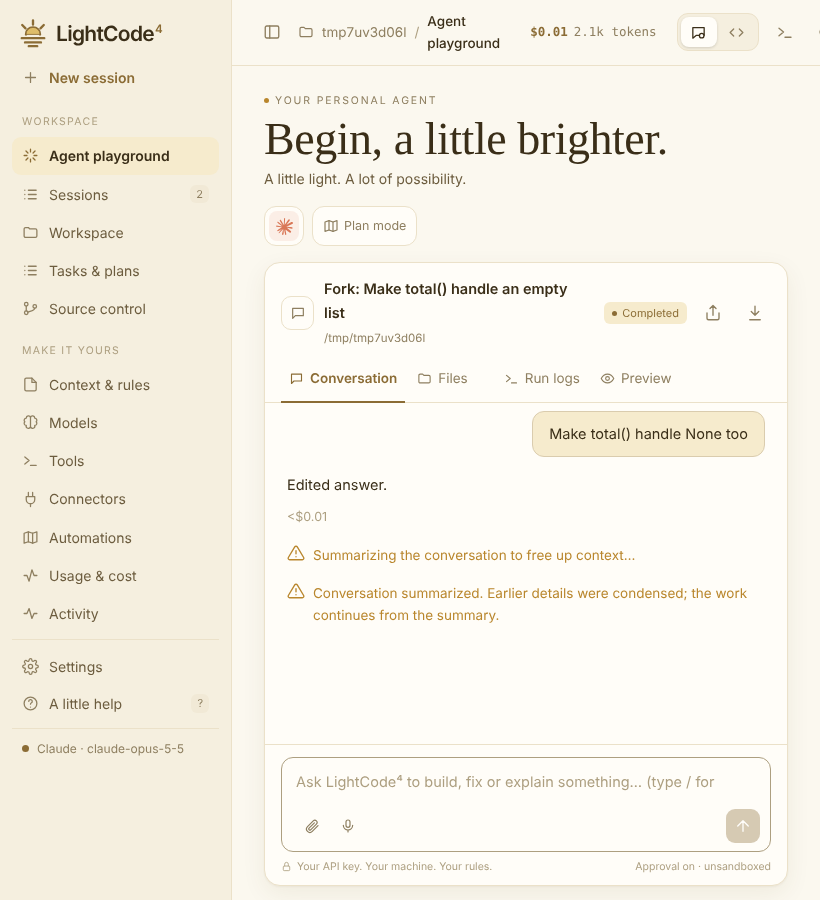
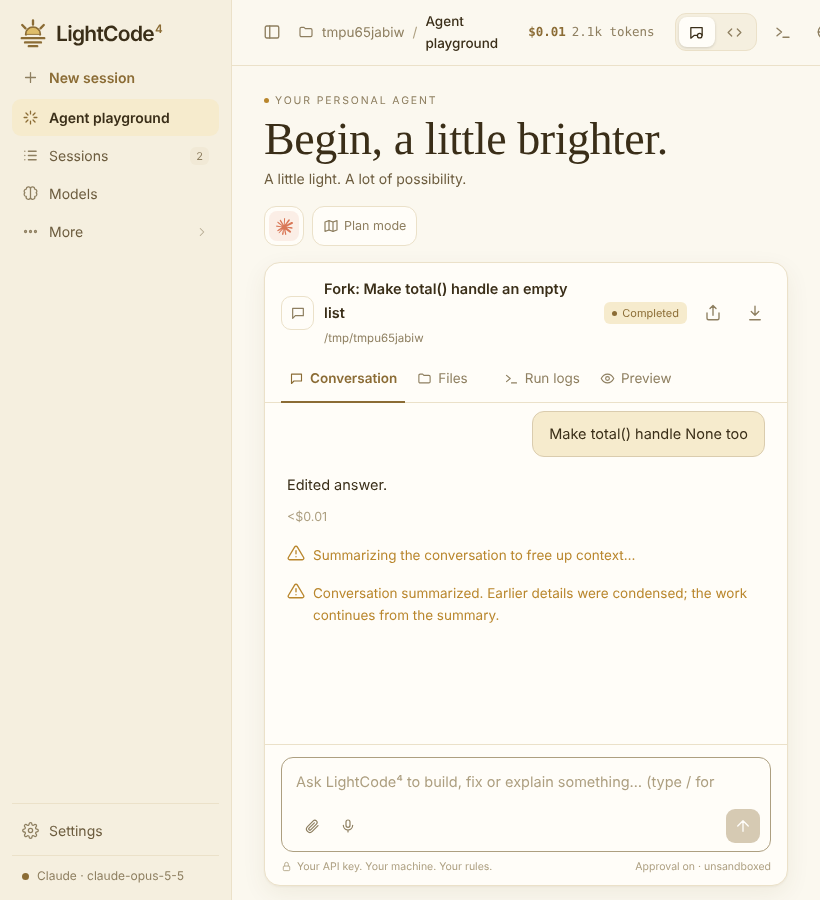
Sidebar: essentials only; everything else under More, which drops down on hover, click or focus; Settings pinned to the bottom
Claude-Session: https://claude.ai/code/session_01AvqsqpDFjBC8YmDhkXMhAb

diff --git a/myagent/static/index.html b/myagent/static/index.html
@@ -349,7 +349,7 @@ aside.hidden { margin-left: -232px; }
 .promo b { font-size: 24px; line-height: 1.1; font-weight: 400; }
 .promo a { display: flex; justify-content: space-between; align-items: center; border: 1px solid rgba(255,255,255,.3); border-radius: 8px; padding: 6px 9px; font-size: 12px; cursor: pointer; }
 .promo a svg, .promo2 a svg, .linkbtn svg { width: 13px; height: 13px; transform: rotate(45deg); }
-.side-foot { margin-top: 6px; }
+.side-foot { margin-top: auto; }
 .who { display: flex; gap: 10px; align-items: center; padding: 10px 6px 2px; border-top: 1px solid var(--line); margin-top: 6px; }
 .who .wsav { background: #ecdcc9; color: #8a6a4c; border-radius: 50%; }
 .topbar { border-bottom: 1px solid var(--line); padding: 10px 24px; min-height: 60px; gap: 10px; background: var(--bg); }
@@ -512,6 +512,15 @@ body.models-open #modelsView { display: block !important; }
 #planBtn { height: 40px; border-radius: 12px; background: var(--panel); }
 #provMenu { left: 0; }
 #side .brand { padding-bottom: 6px; }
+#side .more { display: flex; flex-direction: column; }
+#moreBtn .mchev { margin-left: auto; width: 14px; height: 14px; transition: transform .2s; opacity: .6; }
+.morelist { display: grid; grid-template-rows: 0fr; opacity: 0; visibility: hidden; overflow: hidden;
+  transition: grid-template-rows .22s ease, opacity .18s, visibility 0s linear .22s; }
+.more:hover .morelist, .more:focus-within .morelist, .more.open .morelist { grid-template-rows: 1fr; opacity: 1; visibility: visible; transition-delay: 0s; }
+.morelist-inner { min-height: 0; overflow: hidden; display: flex; flex-direction: column; }
+.more:hover #moreBtn .mchev, .more:focus-within #moreBtn .mchev, .more.open #moreBtn .mchev { transform: rotate(90deg); }
+.more:has(.morelist .navbtn.on) > #moreBtn { color: var(--accent); }
+@media (prefers-reduced-motion: reduce) { .morelist, #moreBtn .mchev { transition: none; } }
 #railWsBtn { cursor: pointer; } #railWsBtn:hover b { color: var(--accent); }
 .modeseg { display: flex; background: var(--side); border: 1px solid var(--line); border-radius: 11px; padding: 3px; gap: 2px; }
 .modeseg button { border: 0; background: none; color: var(--muted); border-radius: 8px; width: 36px; height: 30px; display: grid; place-items: center; }
@@ -553,26 +562,31 @@ body.models-open #modelsView { display: block !important; }
   <div class="brand"><svg class="bmark" viewBox="0 0 64 64" aria-hidden="true"><g fill="none" stroke="currentColor" stroke-width="5" stroke-linecap="round"><path d="M17 35a15 15 0 0 1 30 0M8 43h48M15 52h34M23 60h18M32 5v9M9 15l7 7M55 15l-7 7"/></g><path d="M17 35a15 15 0 0 1 30 0Z" fill="var(--sun)"/></svg><b class="bname">LightCode<sup>4</sup></b></div>
   <button class="wsbox" id="wsBox" title="Workspace folder" hidden><span class="wsav">M</span><span class="wst"><b id="wsName">My workspace</b><small id="wsPath">Personal workspace</small></span><svg><use href="#i-chev"/></svg></button>
   <button class="navbtn newchat" id="newchat"><svg><use href="#i-plus"/></svg>New session</button>
-  <div class="section">Workspace</div>
   <button class="navbtn on" id="navPlay"><svg><use href="#i-spark"/></svg>Agent playground</button>
   <button class="navbtn" id="navSessions"><svg><use href="#i-list"/></svg>Sessions<em id="sessCount">0</em></button>
   <div id="sessBox">
     <button class="navbtn small" id="parallelChat" title="Run another agent at the same time on its own git branch and folder"><svg><use href="#i-agent"/></svg>Parallel session (worktree)</button>
     <div id="chatList"></div></div>
-  <button class="navbtn" id="navFiles"><svg><use href="#i-folder"/></svg>Workspace</button>
-  <button class="navbtn" id="navTasks"><svg><use href="#i-list"/></svg>Tasks &amp; plans</button>
-  <button class="navbtn" id="navGit"><svg viewBox="0 0 24 24"><circle cx="6" cy="6" r="2.5"/><circle cx="6" cy="18" r="2.5"/><circle cx="18" cy="9" r="2.5"/><path d="M6 8.5v7M18 11.5c0 3-4 3.5-10 5.5"/></svg>Source control</button>
-  <div class="section">Make it yours</div>
-  <button class="navbtn" data-set="instr"><svg><use href="#i-file"/></svg>Context &amp; rules</button>
   <button class="navbtn" data-set="model"><svg><use href="#i-brain"/></svg>Models</button>
-  <button class="navbtn" data-set="tools"><svg><use href="#i-term"/></svg>Tools<em id="toolCount"></em></button>
-  <button class="navbtn" data-set="mcp"><svg><use href="#i-plug"/></svg>Connectors</button>
-  <button class="navbtn" data-set="sched"><svg><use href="#i-map"/></svg>Automations</button>
-  <button class="navbtn" id="navUsage"><svg viewBox="0 0 24 24"><path d="M3 12h4l3 8 4-16 3 8h4"/></svg>Usage &amp; cost</button>
-  <button class="navbtn" id="navActivity"><svg viewBox="0 0 24 24"><path d="M3 12h4l3-7 4 14 3-7h4"/></svg>Activity</button>
+  <div class="more" id="more">
+    <button class="navbtn" id="moreBtn" aria-expanded="false" aria-controls="moreList"><svg viewBox="0 0 24 24"><circle cx="5" cy="12" r="1.4"/><circle cx="12" cy="12" r="1.4"/><circle cx="19" cy="12" r="1.4"/></svg>More<svg class="mchev"><use href="#i-chev"/></svg></button>
+    <div class="morelist" id="moreList"><div class="morelist-inner">
+      <div class="section">Workspace</div>
+      <button class="navbtn" id="navFiles"><svg><use href="#i-folder"/></svg>Workspace</button>
+      <button class="navbtn" id="navTasks"><svg><use href="#i-list"/></svg>Tasks &amp; plans</button>
+      <button class="navbtn" id="navGit"><svg viewBox="0 0 24 24"><circle cx="6" cy="6" r="2.5"/><circle cx="6" cy="18" r="2.5"/><circle cx="18" cy="9" r="2.5"/><path d="M6 8.5v7M18 11.5c0 3-4 3.5-10 5.5"/></svg>Source control</button>
+      <div class="section">Make it yours</div>
+      <button class="navbtn" data-set="instr"><svg><use href="#i-file"/></svg>Context &amp; rules</button>
+      <button class="navbtn" data-set="tools"><svg><use href="#i-term"/></svg>Tools<em id="toolCount"></em></button>
+      <button class="navbtn" data-set="mcp"><svg><use href="#i-plug"/></svg>Connectors</button>
+      <button class="navbtn" data-set="sched"><svg><use href="#i-map"/></svg>Automations</button>
+      <button class="navbtn" id="navUsage"><svg viewBox="0 0 24 24"><path d="M3 12h4l3 8 4-16 3 8h4"/></svg>Usage &amp; cost</button>
+      <button class="navbtn" id="navActivity"><svg viewBox="0 0 24 24"><path d="M3 12h4l3-7 4 14 3-7h4"/></svg>Activity</button>
+      <button class="navbtn" id="navHelp"><svg viewBox="0 0 24 24"><circle cx="12" cy="12" r="9"/><path d="M9.5 9a2.5 2.5 0 1 1 3.5 2.3c-.7.3-1 .9-1 1.7M12 17h.01"/></svg>A little help<em>?</em></button>
+    </div></div>
+  </div>
   <div class="side-foot">
     <button class="navbtn" id="openSettings"><svg><use href="#i-gear"/></svg>Settings</button>
-    <button class="navbtn" id="navHelp"><svg viewBox="0 0 24 24"><circle cx="12" cy="12" r="9"/><path d="M9.5 9a2.5 2.5 0 1 1 3.5 2.3c-.7.3-1 .9-1 1.7M12 17h.01"/></svg>A little help<em>?</em></button>
     <div class="who"><span class="dot" id="dot"></span><span id="who">Connecting…</span></div>
   </div>
 </aside>
@@ -1271,6 +1285,9 @@ window.addEventListener("dragleave", () => { if (--dragDepth <= 0) { dragDepth =
 window.addEventListener("dragover", e => e.preventDefault());
 window.addEventListener("drop", e => { e.preventDefault(); dragDepth = 0; document.body.classList.remove("dragging"); if (e.dataTransfer?.files?.length) addFiles(e.dataTransfer.files); });
 
+// ---------- Sidebar "More" ----------
+$("moreBtn").onclick = () => { const o = $("more").classList.toggle("open"); $("moreBtn").setAttribute("aria-expanded", o); };
+$("more").addEventListener("mouseleave", () => { if (!$("more").contains(document.activeElement)) { $("more").classList.remove("open"); $("moreBtn").setAttribute("aria-expanded", "false"); } });
 // ---------- Composer ----------
 function startChatting() { if (!document.body.classList.contains("chatting")) { document.body.classList.add("chatting"); dockComposer(); } }
 function dockComposer() { if (!$("dock").contains($("composer"))) $("dock").appendChild($("composer")); }
@@ -1752,7 +1769,7 @@ $("fpClose").onclick = () => $("folderPicker").close();
 $("wsBox").onclick = $("railWsBtn").onclick = $("folderPill").onclick = openFolderPicker;
 
 // ---------- Interface language ----------
-const I18N = {"es": {"Agent playground": "Área del agente", "Sessions": "Sesiones", "New session": "Nueva sesión", "Parallel session (worktree)": "Sesión paralela (worktree)", "Workspace": "Espacio de trabajo", "Tasks & plans": "Tareas y planes", "Source control": "Control de versiones", "Make it yours": "Hazlo tuyo", "Context & rules": "Contexto y reglas", "Models": "Modelos", "Tools": "Herramientas", "Connectors": "Conectores", "Automations": "Automatizaciones", "Usage & cost": "Uso y costo", "Activity": "Actividad", "Settings": "Ajustes", "A little help": "Ayuda", "Jump to anything…": "Ir a cualquier cosa…", "Your personal agent": "Tu agente personal", "Begin, a little brighter.": "Empieza, un poco más brillante.", "A little light. A lot of possibility.": "Un poco de luz. Muchas posibilidades.", "Checkpoints": "Puntos de control", "View code": "Ver código", "Plan mode": "Modo plan", "Browser preview": "Vista del navegador", "Terminal": "Terminal", "Conversation": "Conversación", "Files": "Archivos", "Run logs": "Registros", "Preview": "Vista previa", "Run overview": "Resumen", "No plan yet": "Aún sin plan", "Open task board": "Abrir tareas", "Model": "Modelo", "Tokens used": "Tokens usados", "Cost": "Costo", "Your next edit, safely saved.": "Tu próxima edición, guardada.", "View": "Ver", "Ready": "Listo", "Working": "Trabajando", "Completed": "Completado", "Idle": "Inactivo", "Your API key. Your machine. Your rules.": "Tu clave. Tu equipo. Tus reglas.", "What would you like to build?": "¿Qué quieres construir?", "Explain what this folder contains": "Explica qué contiene esta carpeta", "Find and fix a bug": "Encuentra y corrige un error", "Write tests for my code": "Escribe pruebas para mi código", "Build a small web page and preview it": "Crea una página web y muéstrala", "Allow": "Permitir", "Deny": "Denegar", "Done": "Hecho", "Running": "Ejecutando", "Failed": "Falló", "Needs approval": "Requiere aprobación", "Undo": "Deshacer", "Cancel": "Cancelar", "Save": "Guardar", "Tools & limits": "Herramientas y límites", "Permissions": "Permisos", "Project instructions": "Instrucciones del proyecto", "Memory": "Memoria", "Schedules": "Programación", "Phone": "Teléfono", "Updates": "Actualizaciones", "Project folder": "Carpeta del proyecto", "Open": "Abrir", "Choose folder…": "Elegir carpeta…", "Keyboard shortcuts": "Atajos de teclado", "Load models": "Cargar modelos", "Test connection": "Probar conexión", "Ask LightCode⁴ to build, fix or explain something… (type / for commands)": "Pide a LightCode⁴ que construya, arregle o explique algo… (escribe / para comandos)", "Approval on": "Aprobación activada", "Auto-approve": "Aprobación automática", "sandboxed": "en sandbox", "unsandboxed": "sin sandbox", "Search models…": "Buscar modelos…"}, "fr": {"Agent playground": "Espace agent", "Sessions": "Sessions", "New session": "Nouvelle session", "Parallel session (worktree)": "Session parallèle (worktree)", "Workspace": "Espace de travail", "Tasks & plans": "Tâches et plans", "Source control": "Contrôle de source", "Make it yours": "Personnaliser", "Context & rules": "Contexte et règles", "Models": "Modèles", "Tools": "Outils", "Connectors": "Connecteurs", "Automations": "Automatisations", "Usage & cost": "Usage et coût", "Activity": "Activité", "Settings": "Réglages", "A little help": "Aide", "Jump to anything…": "Aller à…", "Your personal agent": "Votre agent personnel", "Begin, a little brighter.": "Commencez, un peu plus lumineux.", "A little light. A lot of possibility.": "Un peu de lumière. Beaucoup de possibilités.", "Checkpoints": "Points de contrôle", "View code": "Voir le code", "Plan mode": "Mode plan", "Browser preview": "Aperçu navigateur", "Terminal": "Terminal", "Conversation": "Conversation", "Files": "Fichiers", "Run logs": "Journaux", "Preview": "Aperçu", "Run overview": "Aperçu de l'exécution", "No plan yet": "Pas encore de plan", "Open task board": "Ouvrir les tâches", "Model": "Modèle", "Tokens used": "Jetons utilisés", "Cost": "Coût", "Your next edit, safely saved.": "Votre prochaine modification, sauvegardée.", "View": "Voir", "Ready": "Prêt", "Working": "En cours", "Completed": "Terminé", "Idle": "Inactif", "Your API key. Your machine. Your rules.": "Votre clé. Votre machine. Vos règles.", "What would you like to build?": "Que voulez-vous créer ?", "Explain what this folder contains": "Explique le contenu de ce dossier", "Find and fix a bug": "Trouver et corriger un bug", "Write tests for my code": "Écrire des tests pour mon code", "Build a small web page and preview it": "Créer une petite page web et l'afficher", "Allow": "Autoriser", "Deny": "Refuser", "Done": "Fait", "Running": "En cours", "Failed": "Échec", "Needs approval": "À approuver", "Undo": "Annuler", "Cancel": "Annuler", "Save": "Enregistrer", "Tools & limits": "Outils et limites", "Permissions": "Autorisations", "Project instructions": "Instructions du projet", "Memory": "Mémoire", "Schedules": "Planification", "Phone": "Téléphone", "Updates": "Mises à jour", "Project folder": "Dossier du projet", "Open": "Ouvrir", "Choose folder…": "Choisir un dossier…", "Keyboard shortcuts": "Raccourcis clavier", "Load models": "Charger les modèles", "Test connection": "Tester la connexion", "Ask LightCode⁴ to build, fix or explain something… (type / for commands)": "Demandez à LightCode⁴ de créer, corriger ou expliquer… (tapez / pour les commandes)", "Approval on": "Approbation activée", "Auto-approve": "Approbation auto", "sandboxed": "isolé", "unsandboxed": "non isolé", "Search models…": "Rechercher des modèles…"}, "pt": {"Agent playground": "Área do agente", "Sessions": "Sessões", "New session": "Nova sessão", "Parallel session (worktree)": "Sessão paralela (worktree)", "Workspace": "Espaço de trabalho", "Tasks & plans": "Tarefas e planos", "Source control": "Controle de versão", "Make it yours": "Personalize", "Context & rules": "Contexto e regras", "Models": "Modelos", "Tools": "Ferramentas", "Connectors": "Conectores", "Automations": "Automações", "Usage & cost": "Uso e custo", "Activity": "Atividade", "Settings": "Configurações", "A little help": "Ajuda", "Jump to anything…": "Ir para…", "Your personal agent": "Seu agente pessoal", "Begin, a little brighter.": "Comece, um pouco mais brilhante.", "A little light. A lot of possibility.": "Um pouco de luz. Muitas possibilidades.", "Checkpoints": "Pontos de controle", "View code": "Ver código", "Plan mode": "Modo plano", "Browser preview": "Prévia do navegador", "Terminal": "Terminal", "Conversation": "Conversa", "Files": "Arquivos", "Run logs": "Registros", "Preview": "Prévia", "Run overview": "Resumo", "No plan yet": "Sem plano ainda", "Open task board": "Abrir tarefas", "Model": "Modelo", "Tokens used": "Tokens usados", "Cost": "Custo", "Your next edit, safely saved.": "Sua próxima edição, salva.", "View": "Ver", "Ready": "Pronto", "Working": "Trabalhando", "Completed": "Concluído", "Idle": "Ocioso", "Your API key. Your machine. Your rules.": "Sua chave. Sua máquina. Suas regras.", "What would you like to build?": "O que você quer construir?", "Explain what this folder contains": "Explique o que esta pasta contém", "Find and fix a bug": "Encontre e corrija um bug", "Write tests for my code": "Escreva testes para meu código", "Build a small web page and preview it": "Crie uma página web e visualize", "Allow": "Permitir", "Deny": "Negar", "Done": "Feito", "Running": "Executando", "Failed": "Falhou", "Needs approval": "Precisa de aprovação", "Undo": "Desfazer", "Cancel": "Cancelar", "Save": "Salvar", "Tools & limits": "Ferramentas e limites", "Permissions": "Permissões", "Project instructions": "Instruções do projeto", "Memory": "Memória", "Schedules": "Agendamentos", "Phone": "Telefone", "Updates": "Atualizações", "Project folder": "Pasta do projeto", "Open": "Abrir", "Choose folder…": "Escolher pasta…", "Keyboard shortcuts": "Atalhos de teclado", "Load models": "Carregar modelos", "Test connection": "Testar conexão", "Ask LightCode⁴ to build, fix or explain something… (type / for commands)": "Peça ao LightCode⁴ para construir, corrigir ou explicar… (digite / para comandos)", "Approval on": "Aprovação ativada", "Auto-approve": "Aprovação automática", "sandboxed": "isolado", "unsandboxed": "sem isolamento", "Search models…": "Buscar modelos…"}, "de": {"Agent playground": "Agenten-Bereich", "Sessions": "Sitzungen", "New session": "Neue Sitzung", "Parallel session (worktree)": "Parallele Sitzung (Worktree)", "Workspace": "Arbeitsbereich", "Tasks & plans": "Aufgaben & Pläne", "Source control": "Versionskontrolle", "Make it yours": "Anpassen", "Context & rules": "Kontext & Regeln", "Models": "Modelle", "Tools": "Werkzeuge", "Connectors": "Konnektoren", "Automations": "Automationen", "Usage & cost": "Nutzung & Kosten", "Activity": "Aktivität", "Settings": "Einstellungen", "A little help": "Hilfe", "Jump to anything…": "Springe zu…", "Your personal agent": "Dein persönlicher Agent", "Begin, a little brighter.": "Beginne, ein wenig heller.", "A little light. A lot of possibility.": "Ein wenig Licht. Viele Möglichkeiten.", "Checkpoints": "Prüfpunkte", "View code": "Code ansehen", "Plan mode": "Planmodus", "Browser preview": "Browser-Vorschau", "Terminal": "Terminal", "Conversation": "Unterhaltung", "Files": "Dateien", "Run logs": "Protokolle", "Preview": "Vorschau", "Run overview": "Übersicht", "No plan yet": "Noch kein Plan", "Open task board": "Aufgaben öffnen", "Model": "Modell", "Tokens used": "Tokens genutzt", "Cost": "Kosten", "Your next edit, safely saved.": "Deine nächste Änderung, gesichert.", "View": "Ansehen", "Ready": "Bereit", "Working": "Arbeitet", "Completed": "Fertig", "Idle": "Bereit", "Your API key. Your machine. Your rules.": "Dein Schlüssel. Dein Rechner. Deine Regeln.", "What would you like to build?": "Was möchtest du bauen?", "Explain what this folder contains": "Erkläre, was dieser Ordner enthält", "Find and fix a bug": "Finde und behebe einen Fehler", "Write tests for my code": "Schreibe Tests für meinen Code", "Build a small web page and preview it": "Baue eine kleine Webseite mit Vorschau", "Allow": "Erlauben", "Deny": "Ablehnen", "Done": "Erledigt", "Running": "Läuft", "Failed": "Fehlgeschlagen", "Needs approval": "Genehmigung nötig", "Undo": "Rückgängig", "Cancel": "Abbrechen", "Save": "Speichern", "Tools & limits": "Werkzeuge & Limits", "Permissions": "Berechtigungen", "Project instructions": "Projektanweisungen", "Memory": "Gedächtnis", "Schedules": "Zeitpläne", "Phone": "Telefon", "Updates": "Updates", "Project folder": "Projektordner", "Open": "Öffnen", "Choose folder…": "Ordner wählen…", "Keyboard shortcuts": "Tastenkürzel", "Load models": "Modelle laden", "Test connection": "Verbindung testen", "Ask LightCode⁴ to build, fix or explain something… (type / for commands)": "Bitte LightCode⁴, etwas zu bauen, zu reparieren oder zu erklären… (/ für Befehle)", "Approval on": "Genehmigung an", "Auto-approve": "Automatisch erlauben", "sandboxed": "abgeschirmt", "unsandboxed": "ohne Sandbox", "Search models…": "Modelle suchen…"}};
+const I18N = {"es": {"Agent playground": "Área del agente", "Sessions": "Sesiones", "New session": "Nueva sesión", "Parallel session (worktree)": "Sesión paralela (worktree)", "Workspace": "Espacio de trabajo", "Tasks & plans": "Tareas y planes", "Source control": "Control de versiones", "Make it yours": "Hazlo tuyo", "Context & rules": "Contexto y reglas", "Models": "Modelos", "Tools": "Herramientas", "Connectors": "Conectores", "Automations": "Automatizaciones", "Usage & cost": "Uso y costo", "Activity": "Actividad", "More": "Más", "Settings": "Ajustes", "A little help": "Ayuda", "Jump to anything…": "Ir a cualquier cosa…", "Your personal agent": "Tu agente personal", "Begin, a little brighter.": "Empieza, un poco más brillante.", "A little light. A lot of possibility.": "Un poco de luz. Muchas posibilidades.", "Checkpoints": "Puntos de control", "View code": "Ver código", "Plan mode": "Modo plan", "Browser preview": "Vista del navegador", "Terminal": "Terminal", "Conversation": "Conversación", "Files": "Archivos", "Run logs": "Registros", "Preview": "Vista previa", "Run overview": "Resumen", "No plan yet": "Aún sin plan", "Open task board": "Abrir tareas", "Model": "Modelo", "Tokens used": "Tokens usados", "Cost": "Costo", "Your next edit, safely saved.": "Tu próxima edición, guardada.", "View": "Ver", "Ready": "Listo", "Working": "Trabajando", "Completed": "Completado", "Idle": "Inactivo", "Your API key. Your machine. Your rules.": "Tu clave. Tu equipo. Tus reglas.", "What would you like to build?": "¿Qué quieres construir?", "Explain what this folder contains": "Explica qué contiene esta carpeta", "Find and fix a bug": "Encuentra y corrige un error", "Write tests for my code": "Escribe pruebas para mi código", "Build a small web page and preview it": "Crea una página web y muéstrala", "Allow": "Permitir", "Deny": "Denegar", "Done": "Hecho", "Running": "Ejecutando", "Failed": "Falló", "Needs approval": "Requiere aprobación", "Undo": "Deshacer", "Cancel": "Cancelar", "Save": "Guardar", "Tools & limits": "Herramientas y límites", "Permissions": "Permisos", "Project instructions": "Instrucciones del proyecto", "Memory": "Memoria", "Schedules": "Programación", "Phone": "Teléfono", "Updates": "Actualizaciones", "Project folder": "Carpeta del proyecto", "Open": "Abrir", "Choose folder…": "Elegir carpeta…", "Keyboard shortcuts": "Atajos de teclado", "Load models": "Cargar modelos", "Test connection": "Probar conexión", "Ask LightCode⁴ to build, fix or explain something… (type / for commands)": "Pide a LightCode⁴ que construya, arregle o explique algo… (escribe / para comandos)", "Approval on": "Aprobación activada", "Auto-approve": "Aprobación automática", "sandboxed": "en sandbox", "unsandboxed": "sin sandbox", "Search models…": "Buscar modelos…"}, "fr": {"Agent playground": "Espace agent", "Sessions": "Sessions", "New session": "Nouvelle session", "Parallel session (worktree)": "Session parallèle (worktree)", "Workspace": "Espace de travail", "Tasks & plans": "Tâches et plans", "Source control": "Contrôle de source", "Make it yours": "Personnaliser", "Context & rules": "Contexte et règles", "Models": "Modèles", "Tools": "Outils", "Connectors": "Connecteurs", "Automations": "Automatisations", "Usage & cost": "Usage et coût", "Activity": "Activité", "More": "Plus", "Settings": "Réglages", "A little help": "Aide", "Jump to anything…": "Aller à…", "Your personal agent": "Votre agent personnel", "Begin, a little brighter.": "Commencez, un peu plus lumineux.", "A little light. A lot of possibility.": "Un peu de lumière. Beaucoup de possibilités.", "Checkpoints": "Points de contrôle", "View code": "Voir le code", "Plan mode": "Mode plan", "Browser preview": "Aperçu navigateur", "Terminal": "Terminal", "Conversation": "Conversation", "Files": "Fichiers", "Run logs": "Journaux", "Preview": "Aperçu", "Run overview": "Aperçu de l'exécution", "No plan yet": "Pas encore de plan", "Open task board": "Ouvrir les tâches", "Model": "Modèle", "Tokens used": "Jetons utilisés", "Cost": "Coût", "Your next edit, safely saved.": "Votre prochaine modification, sauvegardée.", "View": "Voir", "Ready": "Prêt", "Working": "En cours", "Completed": "Terminé", "Idle": "Inactif", "Your API key. Your machine. Your rules.": "Votre clé. Votre machine. Vos règles.", "What would you like to build?": "Que voulez-vous créer ?", "Explain what this folder contains": "Explique le contenu de ce dossier", "Find and fix a bug": "Trouver et corriger un bug", "Write tests for my code": "Écrire des tests pour mon code", "Build a small web page and preview it": "Créer une petite page web et l'afficher", "Allow": "Autoriser", "Deny": "Refuser", "Done": "Fait", "Running": "En cours", "Failed": "Échec", "Needs approval": "À approuver", "Undo": "Annuler", "Cancel": "Annuler", "Save": "Enregistrer", "Tools & limits": "Outils et limites", "Permissions": "Autorisations", "Project instructions": "Instructions du projet", "Memory": "Mémoire", "Schedules": "Planification", "Phone": "Téléphone", "Updates": "Mises à jour", "Project folder": "Dossier du projet", "Open": "Ouvrir", "Choose folder…": "Choisir un dossier…", "Keyboard shortcuts": "Raccourcis clavier", "Load models": "Charger les modèles", "Test connection": "Tester la connexion", "Ask LightCode⁴ to build, fix or explain something… (type / for commands)": "Demandez à LightCode⁴ de créer, corriger ou expliquer… (tapez / pour les commandes)", "Approval on": "Approbation activée", "Auto-approve": "Approbation auto", "sandboxed": "isolé", "unsandboxed": "non isolé", "Search models…": "Rechercher des modèles…"}, "pt": {"Agent playground": "Área do agente", "Sessions": "Sessões", "New session": "Nova sessão", "Parallel session (worktree)": "Sessão paralela (worktree)", "Workspace": "Espaço de trabalho", "Tasks & plans": "Tarefas e planos", "Source control": "Controle de versão", "Make it yours": "Personalize", "Context & rules": "Contexto e regras", "Models": "Modelos", "Tools": "Ferramentas", "Connectors": "Conectores", "Automations": "Automações", "Usage & cost": "Uso e custo", "Activity": "Atividade", "More": "Mais", "Settings": "Configurações", "A little help": "Ajuda", "Jump to anything…": "Ir para…", "Your personal agent": "Seu agente pessoal", "Begin, a little brighter.": "Comece, um pouco mais brilhante.", "A little light. A lot of possibility.": "Um pouco de luz. Muitas possibilidades.", "Checkpoints": "Pontos de controle", "View code": "Ver código", "Plan mode": "Modo plano", "Browser preview": "Prévia do navegador", "Terminal": "Terminal", "Conversation": "Conversa", "Files": "Arquivos", "Run logs": "Registros", "Preview": "Prévia", "Run overview": "Resumo", "No plan yet": "Sem plano ainda", "Open task board": "Abrir tarefas", "Model": "Modelo", "Tokens used": "Tokens usados", "Cost": "Custo", "Your next edit, safely saved.": "Sua próxima edição, salva.", "View": "Ver", "Ready": "Pronto", "Working": "Trabalhando", "Completed": "Concluído", "Idle": "Ocioso", "Your API key. Your machine. Your rules.": "Sua chave. Sua máquina. Suas regras.", "What would you like to build?": "O que você quer construir?", "Explain what this folder contains": "Explique o que esta pasta contém", "Find and fix a bug": "Encontre e corrija um bug", "Write tests for my code": "Escreva testes para meu código", "Build a small web page and preview it": "Crie uma página web e visualize", "Allow": "Permitir", "Deny": "Negar", "Done": "Feito", "Running": "Executando", "Failed": "Falhou", "Needs approval": "Precisa de aprovação", "Undo": "Desfazer", "Cancel": "Cancelar", "Save": "Salvar", "Tools & limits": "Ferramentas e limites", "Permissions": "Permissões", "Project instructions": "Instruções do projeto", "Memory": "Memória", "Schedules": "Agendamentos", "Phone": "Telefone", "Updates": "Atualizações", "Project folder": "Pasta do projeto", "Open": "Abrir", "Choose folder…": "Escolher pasta…", "Keyboard shortcuts": "Atalhos de teclado", "Load models": "Carregar modelos", "Test connection": "Testar conexão", "Ask LightCode⁴ to build, fix or explain something… (type / for commands)": "Peça ao LightCode⁴ para construir, corrigir ou explicar… (digite / para comandos)", "Approval on": "Aprovação ativada", "Auto-approve": "Aprovação automática", "sandboxed": "isolado", "unsandboxed": "sem isolamento", "Search models…": "Buscar modelos…"}, "de": {"Agent playground": "Agenten-Bereich", "Sessions": "Sitzungen", "New session": "Neue Sitzung", "Parallel session (worktree)": "Parallele Sitzung (Worktree)", "Workspace": "Arbeitsbereich", "Tasks & plans": "Aufgaben & Pläne", "Source control": "Versionskontrolle", "Make it yours": "Anpassen", "Context & rules": "Kontext & Regeln", "Models": "Modelle", "Tools": "Werkzeuge", "Connectors": "Konnektoren", "Automations": "Automationen", "Usage & cost": "Nutzung & Kosten", "Activity": "Aktivität", "More": "Mehr", "Settings": "Einstellungen", "A little help": "Hilfe", "Jump to anything…": "Springe zu…", "Your personal agent": "Dein persönlicher Agent", "Begin, a little brighter.": "Beginne, ein wenig heller.", "A little light. A lot of possibility.": "Ein wenig Licht. Viele Möglichkeiten.", "Checkpoints": "Prüfpunkte", "View code": "Code ansehen", "Plan mode": "Planmodus", "Browser preview": "Browser-Vorschau", "Terminal": "Terminal", "Conversation": "Unterhaltung", "Files": "Dateien", "Run logs": "Protokolle", "Preview": "Vorschau", "Run overview": "Übersicht", "No plan yet": "Noch kein Plan", "Open task board": "Aufgaben öffnen", "Model": "Modell", "Tokens used": "Tokens genutzt", "Cost": "Kosten", "Your next edit, safely saved.": "Deine nächste Änderung, gesichert.", "View": "Ansehen", "Ready": "Bereit", "Working": "Arbeitet", "Completed": "Fertig", "Idle": "Bereit", "Your API key. Your machine. Your rules.": "Dein Schlüssel. Dein Rechner. Deine Regeln.", "What would you like to build?": "Was möchtest du bauen?", "Explain what this folder contains": "Erkläre, was dieser Ordner enthält", "Find and fix a bug": "Finde und behebe einen Fehler", "Write tests for my code": "Schreibe Tests für meinen Code", "Build a small web page and preview it": "Baue eine kleine Webseite mit Vorschau", "Allow": "Erlauben", "Deny": "Ablehnen", "Done": "Erledigt", "Running": "Läuft", "Failed": "Fehlgeschlagen", "Needs approval": "Genehmigung nötig", "Undo": "Rückgängig", "Cancel": "Abbrechen", "Save": "Speichern", "Tools & limits": "Werkzeuge & Limits", "Permissions": "Berechtigungen", "Project instructions": "Projektanweisungen", "Memory": "Gedächtnis", "Schedules": "Zeitpläne", "Phone": "Telefon", "Updates": "Updates", "Project folder": "Projektordner", "Open": "Öffnen", "Choose folder…": "Ordner wählen…", "Keyboard shortcuts": "Tastenkürzel", "Load models": "Modelle laden", "Test connection": "Verbindung testen", "Ask LightCode⁴ to build, fix or explain something… (type / for commands)": "Bitte LightCode⁴, etwas zu bauen, zu reparieren oder zu erklären… (/ für Befehle)", "Approval on": "Genehmigung an", "Auto-approve": "Automatisch erlauben", "sandboxed": "abgeschirmt", "unsandboxed": "ohne Sandbox", "Search models…": "Modelle suchen…"}};
 const I18N_ATTR = ["placeholder", "title", "aria-label"];
 let uiLang = "en";
 function tr(text) { return (I18N[uiLang] || {})[text.trim()] || null; }

diff --git a/tests/ui_audit.js b/tests/ui_audit.js
@@ -2,6 +2,7 @@
 const { chromium } = require('playwright');
 const url = process.argv[2];
 const problems = [], passed = [];
+async function navTo(pg, sel) { if (!(await pg.isVisible(sel))) { await pg.hover('#moreBtn'); await pg.waitForTimeout(300); } await pg.click(sel); }
 const check = (name, ok, detail = '') => (ok ? passed : problems).push(name + (detail ? ' — ' + detail : ''));
 async function overlaps(pg, label) {
   const found = await pg.evaluate(() => {
@@ -55,16 +56,22 @@ async function overlaps(pg, label) {
     } else if (w === 1440) {
       // --- sidebar
       await pg.click('#navSessions'); check('Sessions opens the session list', await pg.isVisible('#sessBox'));
-      await pg.click('#navGit'); check('Source control opens Git', await pg.isVisible('#gitView'));
-      await pg.click('#navFiles'); check('Workspace opens the terminal', await pg.isVisible('#termBox'));
+      check('Sidebar shows only the essentials until More is opened', !(await pg.isVisible('#navGit')) && !(await pg.isVisible('#navUsage')) && await pg.isVisible('#moreBtn') && await pg.isVisible('#newchat'));
+      await pg.hover('#moreBtn'); await pg.waitForTimeout(350);
+      check('Pointing at More drops the rest down', await pg.isVisible('#navGit') && await pg.isVisible('#navHelp') && await pg.isVisible('aside [data-set="mcp"]'));
+      await overlaps(pg, 'More open');
+      await pg.mouse.move(900, 500); await pg.waitForTimeout(400);
+      check('Moving away folds More back up', !(await pg.isVisible('#navGit')));
+      await navTo(pg, '#navGit'); check('Source control opens Git', await pg.isVisible('#gitView'));
+      await navTo(pg, '#navFiles'); check('Workspace opens the terminal', await pg.isVisible('#termBox'));
       await pg.click('#navPlay'); check('Agent playground shows the conversation', !(await pg.isVisible('#panel')));
       for (const [tab, pane] of [['instr', 'instr'], ['tools', 'tools'], ['mcp', 'mcp'], ['sched', 'sched']]) {
-        await pg.click(`aside [data-set="${tab}"]`); await pg.waitForSelector('#settings[open]');
+        await navTo(pg, `aside [data-set="${tab}"]`); await pg.waitForSelector('#settings[open]');
         check(`Sidebar “${tab}” opens Settings on the right tab`, await pg.isVisible(`.pane[data-p="${pane}"]`));
         await pg.click('#cancelSettings');
       }
-      await pg.click('#navUsage'); check('Usage & cost shows the cost', (await pg.innerText('#log')).includes('cost'));
-      await pg.click('#navHelp'); check('A little help opens shortcuts', await pg.isVisible('#keys[open]')); await pg.click('#closeKeys');
+      await navTo(pg, '#navUsage'); check('Usage & cost shows the cost', (await pg.innerText('#log')).includes('cost'));
+      await navTo(pg, '#navHelp'); check('A little help opens shortcuts', await pg.isVisible('#keys[open]')); await pg.click('#closeKeys');
       await pg.click('#railWsBtn'); await pg.waitForTimeout(300);
       check('Workspace row opens the folder chooser', await pg.isVisible('#folderPicker[open]'));
       if (await pg.isVisible('#folderPicker[open]')) { await overlaps(pg, 'folder chooser'); await pg.keyboard.press('Escape'); }
